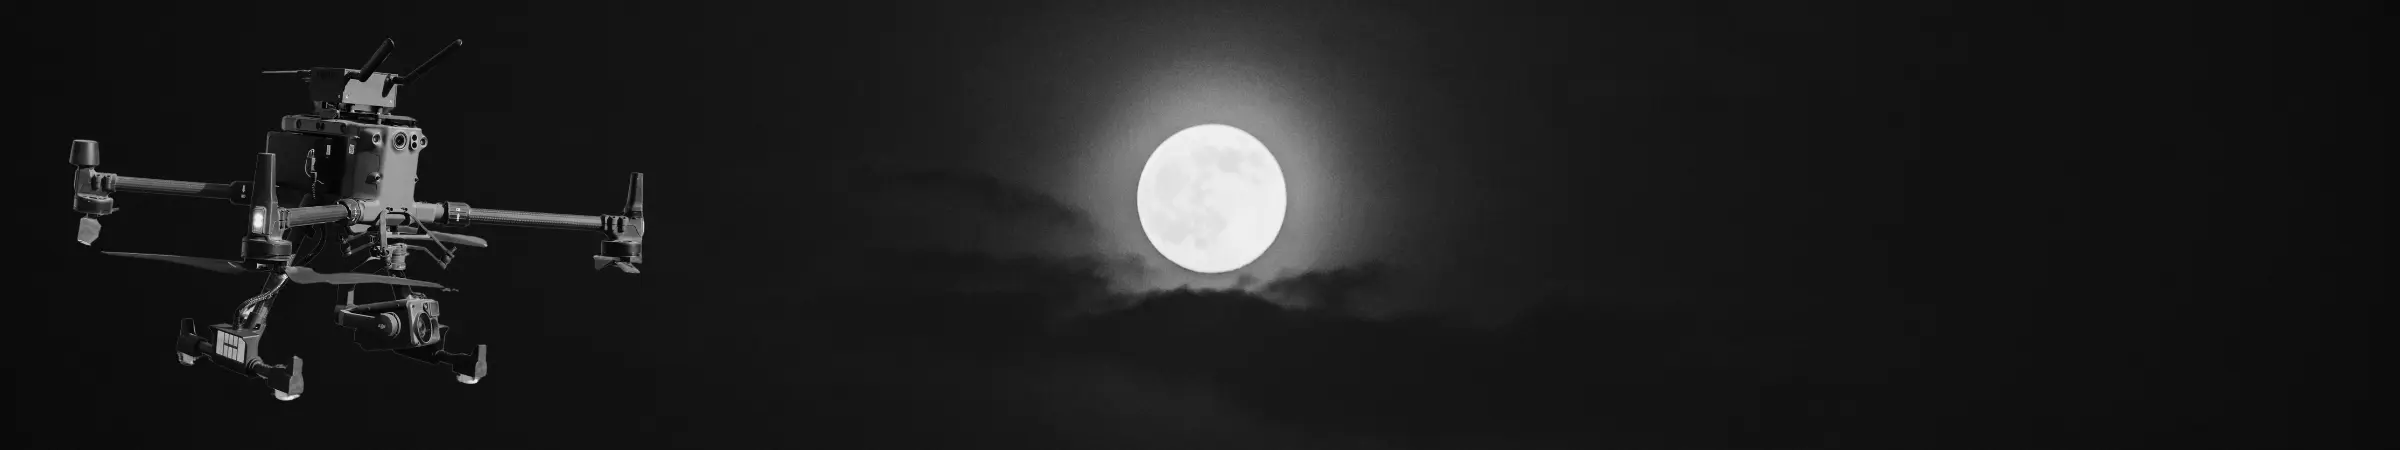
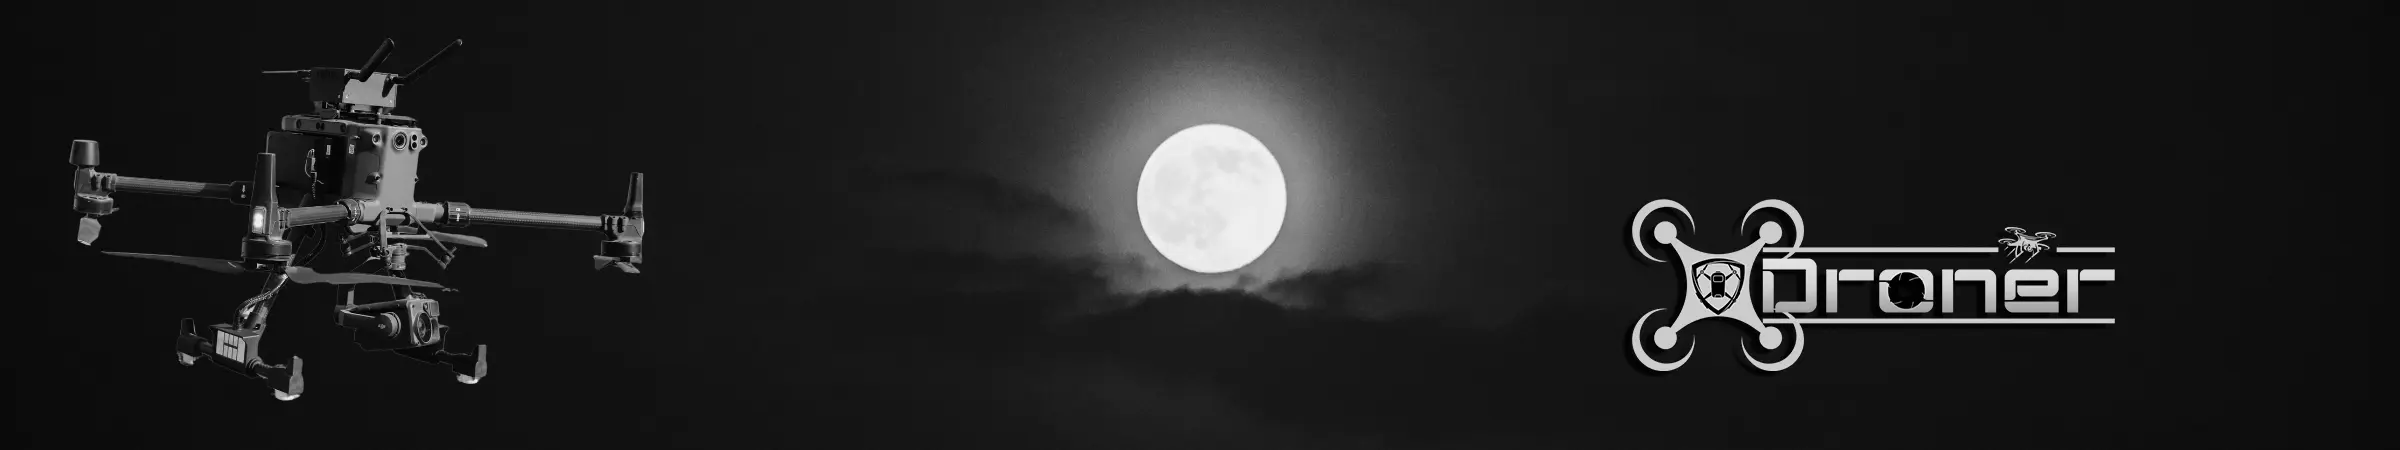
Refactor hero section and improve mobile performance

Changed region(s): [[0.6562, 0.4356, 0.9062, 0.84]]

diff --git a/pages/about.html b/pages/about.html
@@ -217,13 +217,8 @@
   <section class="about-hero" style="background: url('../assets/images/hero-bg_result.webp') center center/cover no-repeat;">
     <div class="container d-flex flex-column align-items-center justify-content-center" style="min-height: 340px; padding-top: 80px;">
       <div class="text-center" data-aos="fade-up">
-        <h1 style="flex-direction: column; align-items: center; gap: 0; text-align: center;">
-          <img src="../assets/images/logo-droneryellow-dark_result.webp" alt="DRONER לוגו" style="height: 110px; border-radius: 12px; padding: 0; box-shadow: 0 2px 12px rgba(0,0,0,0.07); background: none; margin-top: 0.5rem;" decoding="async" loading="lazy">
-        </h1>
-        <span class="d-block mt-2 fw-bold section-title" style="font-size:2.3rem; font-weight:700; color:var(--color-gold);">החברה מאחורי הפתרון</span>
-        </p>
-        <p>היכרות עם המבנה, הניסיון והאנשים שמאפשרים לנו לספק מענה מבצעי בקצה הקדמי
-       </p>
+        <span class="d-block mt-2 fw-bold section-title text-center" style="font-size:2.3rem; font-weight:700; color:var(--color-gold);">דרונר - החברה שמאחורי הפתרון</span>
+        <p class="text-center">הכירו את המבנה, הניסיון והאנשים שמאפשרים לנו להוביל מצוינות תפעולית בחזית</p>
       </div>
     </div>
   </section>

diff --git a/index.html b/index.html
@@ -589,8 +589,9 @@
     </div>
     <div class="hero-content position-relative d-flex flex-column align-items-center justify-content-center text-center w-100" style="min-height: 32vh; z-index:1;">
       <div class="container d-flex flex-column align-items-center justify-content-center">
-        <img src="assets/images/logo-droneryellow-dark_result.webp" alt="לוגו DRONER" class="hero-logo" style="height:130px;max-width:100%;width:auto;" decoding="async">
-        <span class="d-block mt-2 fw-bold section-title" style="font-size:2.3rem; font-weight: 700; letter-spacing: 0;">שילוב של טכנולוגיה, שליטה וניסיון מבצעי</span>
+        <!-- Remove or comment out the <img> or logo element inside the hero section only -->
+        <!-- <img src="assets/images/logo-droneryellow-dark_result.webp" alt="לוגו DRONER" class="hero-logo" style="height:130px;max-width:100%;width:auto;" decoding="async"> -->
+        <span class="d-block mt-2 fw-bold section-title" style="font-size:2.3rem; font-weight: 700; letter-spacing: 0;">דרונר - שילוב של טכנולוגיה, שליטה וניסיון מבצעי</span>
         <p class="lead mb-0 mt-4" style="font-size:1.5rem; font-weight:500;">
           מערכות רחפנים אוטונומיים לאבטחה ובקרה באתרי לקוח
         </p>

diff --git a/en/assets/css/style-en.css b/en/assets/css/style-en.css
@@ -25,22 +25,46 @@ body, html {
   direction: ltr;
 }
 
-/* === Force Center Hero Section Text === */
+/* === Force Center Hero Section Text and Consistent Sizing === */
 .hero-section .hero-content,
 .hero-section .hero-content *,
 .hero-section h1,
 .hero-section p,
-.hero-section .lead,
-.about-hero .container,
-.about-hero .container *,
-.about-hero h1,
-.about-hero p {
+.hero-section .lead {
   text-align: center !important;
   justify-content: center !important;
   align-items: center !important;
   margin-left: auto !important;
   margin-right: auto !important;
   display: block;
+  width: 100%;
+}
+
+.hero-section h1 {
+  font-size: 2.3rem !important;
+  color: var(--color-gold) !important;
+  font-weight: 700;
+  text-shadow: 0 4px 24px rgba(0,0,0,0.45);
+  margin-bottom: 1rem;
+}
+
+.hero-section p,
+.hero-section .lead {
+  font-size: 1.35rem !important;
+  color: var(--color-light) !important;
+  text-shadow: 0 2px 8px rgba(255,214,0,0.15);
+  margin-bottom: 1.5rem;
+}
+
+/* Responsive: match font size on mobile */
+@media (max-width: 768px) {
+  .hero-section h1 {
+    font-size: 1.5rem !important;
+  }
+  .hero-section p,
+  .hero-section .lead {
+    font-size: 1.05rem !important;
+  }
 }
 
 /* === Typography === */

diff --git a/en/pages/about.html b/en/pages/about.html
@@ -221,10 +221,7 @@
   <section class="about-hero" style="background: url('../assets/images/hero-bg_result.webp') center center/cover no-repeat;">
     <div class="container d-flex flex-column align-items-center justify-content-center" style="min-height: 340px; padding-top: 80px;">
       <div class="text-center" data-aos="fade-up">
-        <h1 style="flex-direction: column; align-items: center; gap: 0; text-align: center;">
-          <img src="../assets/images/logo-droneryellow-dark_result.webp" alt="DRONER Logo" style="height: 110px; border-radius: 12px; padding: 0; box-shadow: 0 2px 12px rgba(0,0,0,0.07); background: none; margin-top: 0.5rem;" decoding="async">
-        </h1>
-        <span class="d-block mt-2 fw-bold section-title text-center" style="font-size:2.3rem; font-weight:700; color:var(--color-gold);">The Company Behind the Solution</span>
+        <span class="d-block mt-2 fw-bold section-title text-center" style="font-size:2.3rem; font-weight:700; color:var(--color-gold);">DRONER - The Company Behind the Solution</span>
         
         <p class="text-center">Meet the structure, experience, and people that enable us to deliver operational excellence at the frontline</p>
       </div>

diff --git a/assets/css/style.css b/assets/css/style.css
@@ -2124,3 +2124,45 @@ button.btn-warning .fa-user {
 .about-collab-logos img[src*="costumers.webp"]:hover {
   transform: none !important;
 }
+
+/* === Force Center Hero Section Text and Consistent Sizing === */
+.hero-section .hero-content,
+.hero-section .hero-content *,
+.hero-section h1,
+.hero-section p,
+.hero-section .lead {
+  text-align: center !important;
+  justify-content: center !important;
+  align-items: center !important;
+  margin-left: auto !important;
+  margin-right: auto !important;
+  display: block;
+  width: 100%;
+}
+
+.hero-section h1 {
+  font-size: 2.3rem !important;
+  color: var(--color-gold) !important;
+  font-weight: 700;
+  text-shadow: 0 4px 24px rgba(0,0,0,0.45);
+  margin-bottom: 1rem;
+}
+
+.hero-section p,
+.hero-section .lead {
+  font-size: 1.35rem !important;
+  color: var(--color-light) !important;
+  text-shadow: 0 2px 8px rgba(255,214,0,0.15);
+  margin-bottom: 1.5rem;
+}
+
+/* Responsive: match font size on mobile */
+@media (max-width: 768px) {
+  .hero-section h1 {
+    font-size: 1.5rem !important;
+  }
+  .hero-section p,
+  .hero-section .lead {
+    font-size: 1.05rem !important;
+  }
+}

diff --git a/en/index.html b/en/index.html
@@ -584,8 +584,8 @@
     </div>
     <div class="hero-content position-relative d-flex flex-column align-items-center justify-content-center text-center w-100" style="min-height: 32vh; z-index:1;">
       <div class="container d-flex flex-column align-items-center justify-content-center">
-        <img src="assets/images/logo-droneryellow-dark_result.webp" alt="DRONER Logo" class="hero-logo" style="height:130px;max-width:100%;width:auto;" decoding="async">
-        <span class="d-block mt-2 fw-bold section-title text-center" style="font-size:2.3rem; font-weight: 700; letter-spacing: 0;">Combining technology, control, and operational experience</span>
+        <!-- Removed logo image from hero section -->
+        <span class="d-block mt-2 fw-bold section-title text-center" style="font-size:2.3rem; font-weight: 700; letter-spacing: 0;">DRONER - Combining technology, control, and operational experience</span>
         <p class="lead mb-0 mt-4 text-center" style="font-size:1.5rem; font-weight:500;">
           Autonomous drone systems for on-site security and monitoring
         </p>
